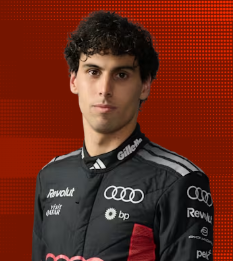
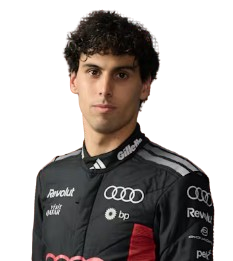
Changes to driver head to head image

diff --git a/Frontend/dashboard/src/components/cards/HeadToHead/HeadToHead.jsx b/Frontend/dashboard/src/components/cards/HeadToHead/HeadToHead.jsx
@@ -8,6 +8,7 @@ export default function HeadToHead() {
   const [driverA, setDriverA] = useState("DriverA");
   const [driverB, setDriverB] = useState("DriverB");
   const [stats, setStats] = useState(null);
+  const [positions, setPositions] = useState({});
   const [loading, setLoading] = useState(false);
 
   useEffect(() => {
@@ -22,6 +23,23 @@ export default function HeadToHead() {
       .then((data) => { setStats(data); setLoading(false); })
       .catch(() => setLoading(false));
   }, [driverA, driverB]);
+
+  useEffect(() => {
+    fetch(`${API_BASE_URL}/api/f1/drivers/standings`)
+      .then((res) => res.json())
+      .then((data) => {
+        const nextPositions = {};
+
+        data.forEach((driver) => {
+          nextPositions[driver.imageKey] = driver.position;
+        });
+
+        setPositions(nextPositions);
+      })
+      .catch(() => {
+        setPositions({});
+      });
+  }, []);
 
   return (
     <div className="driver-standings-card">
@@ -38,7 +56,7 @@ export default function HeadToHead() {
                 <option key={d} value={d}>{d}</option>
               ))}
           </select>
-          <DriverAvatar driver={driverA} side="left" />
+          <DriverAvatar driver={driverA} side="left" position={positions[driverA]} />
         </div>
 
         <div className="h2h-stats">
@@ -61,18 +79,23 @@ export default function HeadToHead() {
                 <option key={d} value={d}>{d}</option>
               ))}
           </select>
-          <DriverAvatar driver={driverB} side="right" />
+          <DriverAvatar driver={driverB} side="right" position={positions[driverB]} />
         </div>
       </div>
     </div>
   );
 }
 
-function DriverAvatar({ driver, side }) {
+function DriverAvatar({ driver, side, position }) {
   return (
     <div className={`h2h-driver h2h-driver--${side}`}>
       {driverImages[driver] ? (
-        <img src={driverImages[driver]} alt={driver} />
+        <>
+          <img className="h2h-driver-image" src={driverImages[driver]} alt={driver} />
+          {position != null && (
+            <div className="h2h-driver-position">P{position} in championship</div>
+          )}
+        </>
       ) : (
         <div className="driver-placeholder">{driver.charAt(0)}</div>
       )}

diff --git a/Frontend/dashboard/src/components/cards/HeadToHead/HeadToHead.css b/Frontend/dashboard/src/components/cards/HeadToHead/HeadToHead.css
@@ -27,31 +27,72 @@
 /* Driver images — tall rectangular */
 .h2h-driver {
   flex-shrink: 0;
-  width: 160px;
+  position: relative;
+  width: 150px;
   height: 160px;
-  border-radius: 12px;
+  border-radius: 15% 2%;
   overflow: hidden;
- box-shadow:
-    0 0 8px rgba(22, 89, 191, 0.9),   /* blue glow */
-    0 0 18px rgba(243, 233, 174, 0.8);   /* golden glow */
+  background-color: #0b1426;
+ /* box-shadow: */
+    /*0 0 8px rgba(22, 89, 191, 0.9),   /* blue glow */
+    /*0 0 18px rgba(243, 233, 174, 0.8); */  /* golden glow */
+
+  border: 5px solid #273228;
+
+  box-shadow: 
+    /* Inner dark gap right inside the border */
+    inset 0 0 0 2px #421a06, 
+    inset 0 0 0 4px #121111; 
+    
+
 }
 
-.h2h-driver img {
+.h2h-driver-image {
+  display: block;
   width: 100%;
   height: 100%;
   object-fit: cover;
   object-position: top;
+
+  transform-origin: bottom center;
+  transition: transform 0.3s ease; 
+  position: relative;
+  z-index: 1;
  
 }
 
-.h2h-driver--left img {
-  object-position: right top;
-   background: linear-gradient(to top, rgba(5, 10, 35, 0.95) 0%, transparent 100%);
+.h2h-driver-position {
+  position: absolute;
+  left: 8px;
+  right: 8px;
+  bottom: 0;
+  z-index: 2;
+  box-sizing: border-box;
+  padding: 5px 8px 6px;
+  font-size: 10px;
+  font-weight: 700;
+  letter-spacing: 0.3px;
+  color: #f4f7ff;
+  text-align: center;
+  white-space: nowrap;
+  overflow: hidden;
+  text-overflow: ellipsis;
+  background: rgba(8, 12, 28, 0.34);
+  backdrop-filter: blur(10px) saturate(130%);
+  -webkit-backdrop-filter: blur(10px) saturate(130%);
+  border-top: 1px solid rgba(255, 255, 255, 0.12);
+  text-shadow: 0 1px 2px rgba(0, 0, 0, 0.45);
+  border-radius: 10px 10px 0 0;
 }
 
-.h2h-driver--right img {
+.h2h-driver--left .h2h-driver-image {
   object-position: right top;
-   background: linear-gradient(to top, rgba(5, 10, 35, 0.95) 0%, transparent 100%);
+   /* background: linear-gradient(to top, rgba(5, 10, 35, 0.95) 0%, transparent 100%); */
+}
+
+.h2h-driver--right .h2h-driver-image {
+  object-position: right top;
+   /* background: linear-gradient(to top, rgba(5, 10, 35, 0.95) 0%, transparent 100%); */
 }
 
 .driver-placeholder {

diff --git a/Frontend/dashboard/src/components/cards/DriverStandings/Standings.jsx b/Frontend/dashboard/src/components/cards/DriverStandings/Standings.jsx
@@ -72,7 +72,7 @@ export default function DriverStandings() {
               <tr key={driver.imageKey || index}>
                 <td className="driver-cell">
                   {driverImages[driver.imageKey] ? (
-                    <img src={driverImages[driver.imageKey]} alt={driver.name} />
+                    <img loading="lazy"src={driverImages[driver.imageKey]} alt={driver.name} />
                   ) : (
                     <div className="driver-placeholder">{driver.name.charAt(0)}</div>
                   )}

diff --git a/Frontend/dashboard/src/components/cards/UpcomingEvents/Upcoming.css b/Frontend/dashboard/src/components/cards/UpcomingEvents/Upcoming.css
@@ -21,12 +21,14 @@ justify-content: center;
 }
 
 .upcoming-status {
-  text-align: center;
+  text-align: left;
   color: #9ca3af;
   padding: 20px 0;
 }
 
 .race-card {
+  width: 300px;
+  height: 100%;
   background: rgba(12, 18, 48, 0.8);
   border-radius: 12px;
   overflow: hidden;
